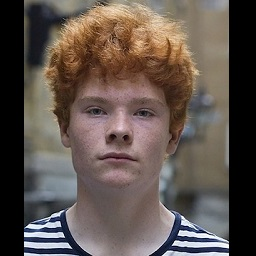
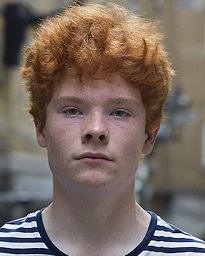
python

diff --git a/vision/body_analysis/age_gender/age_gender.py b/vision/body_analysis/age_gender/age_gender.py
@@ -1,11 +1,21 @@
 import onnxruntime
 import cv2
 import numpy as np
-from datetime import datetime
 
+
+# resize image with original ratio function
+def cv_resize(img, size):
+    jpg = img
+    shape = jpg.shape[:2]
+    r = min(size[0] / shape[0], size[1] / shape[1])
+    new_size = int(round(shape[0] * r)), int(round(shape[1] * r))
+    border = int((size[0] - new_size[0]) / 2), int((size[1] - new_size[1]) / 2)
+    jpg = cv2.resize(jpg, (new_size[1], new_size[0]))
+    num = np.zeros((size[0], size[1], 3), np.uint8)
+    num[border[0]:new_size[0]+border[0], border[1]:new_size[1]+border[1]] = jpg 
+    return num
 
 # fields
-start_time = datetime.now()
 age_model = "vgg_ilsvrc_16_age_imdb_wiki.onnx"
 gender_model = "vgg_ilsvrc_16_gender_imdb_wiki.onnx"
 image_name = "images/brad.jpg"
@@ -15,7 +25,10 @@ size = (224, 224)
 # prepare image
 # resize to 224 x 224, BGR, float [0, 255], expand to batch size 1
 jpg = cv2.imread(image_name)
-img = cv2.resize(jpg, size)
+img = cv_resize(jpg, size)
+
+
+#img = cv2.resize(jpg, size)
 img = img[:, :, ::-1].transpose(2, 0, 1)
 img = img.astype(np.float32)
 img = np.expand_dims(img, axis=0)
@@ -26,8 +39,8 @@ print('Input image: {0}'.format(image_name))
 gender_session = onnxruntime.InferenceSession(gender_model)
 input_name = gender_session.get_inputs()[0].name
 outputs = gender_session.run(None, {input_name: img})[0][0]
-label = "Woman" if (np.argmax(outputs) == 0) else "Man"
-print('Gender: {}'.format(label))
+gender = "Woman" if (np.argmax(outputs) == 0) else "Man"
+print('Gender: {}'.format(gender))
 
 
 # prepare and run age prediction session
@@ -36,8 +49,3 @@ input_name = age_session.get_inputs()[0].name
 outputs = age_session.run(None, {input_name: img})[0][0]
 age = round(sum(outputs * list(range(0, 101))), 1)
 print('Age: {}'.format(age))
-
-
-# time check
-time_elapsed = datetime.now() - start_time 
-print('Time elapsed {} (hh:mm:ss.ms)'.format(time_elapsed))
